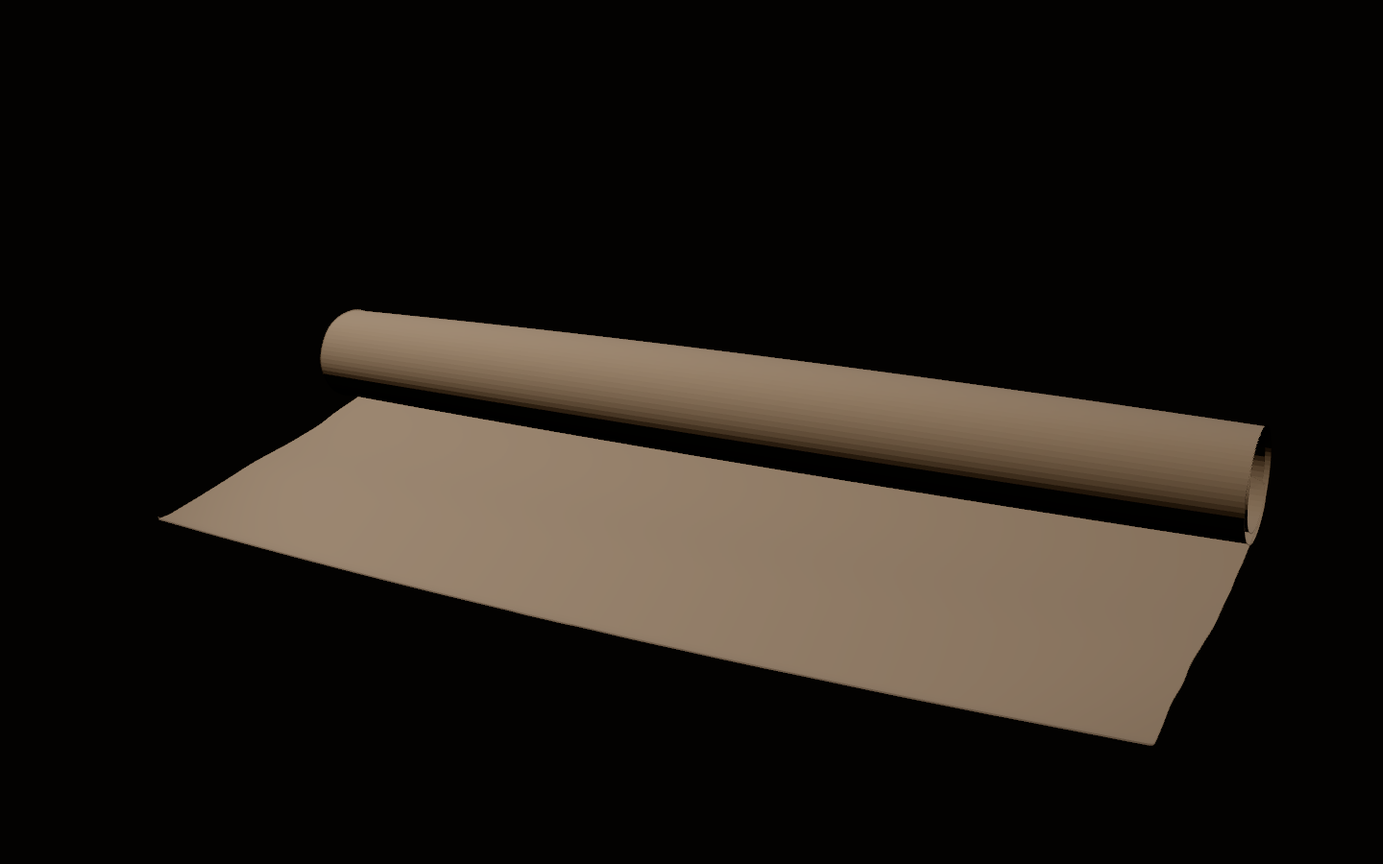
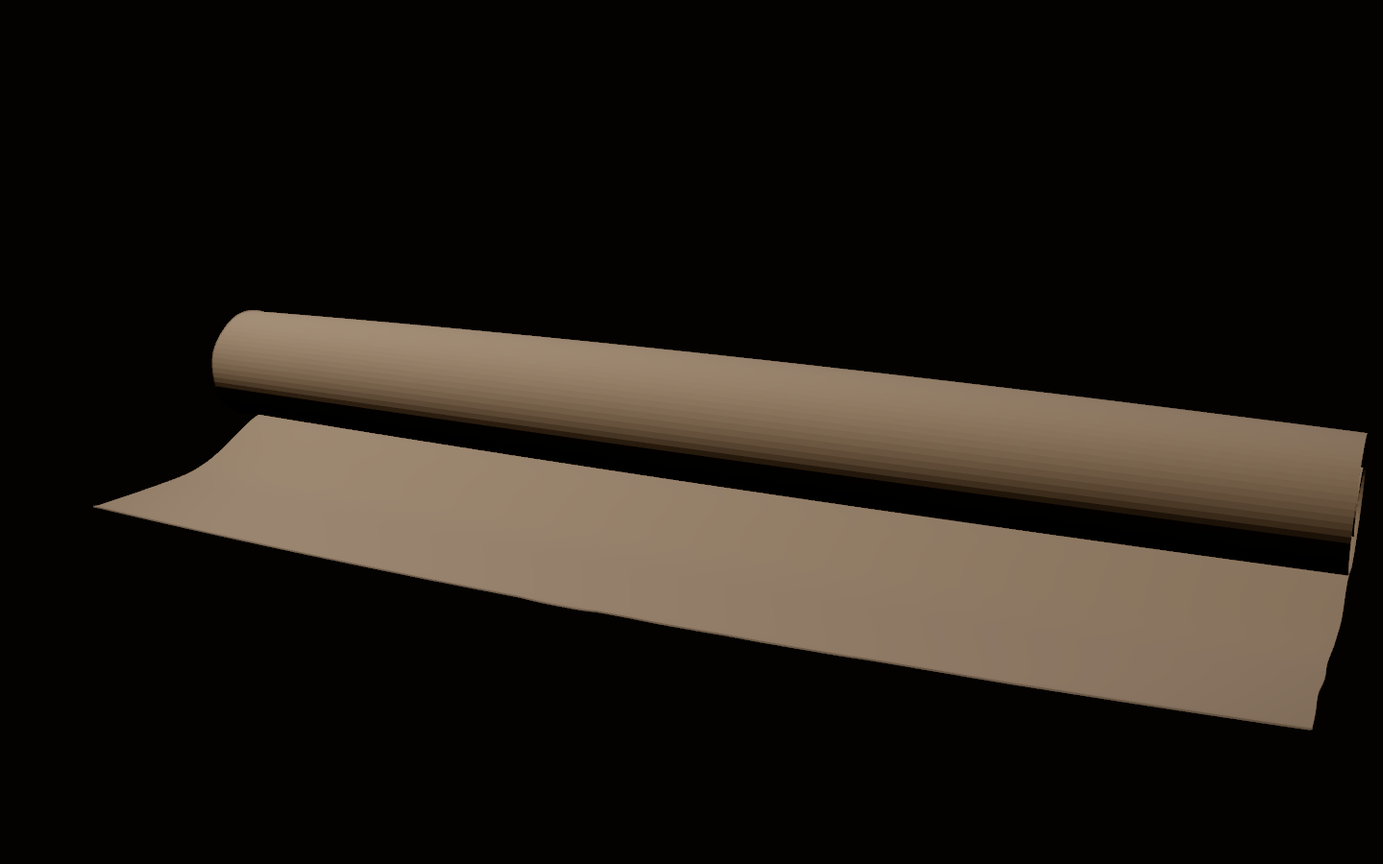
v1.3.1: tighten the rolled start — 82% wrapped, 4.2 turns, draped tongue
- W_top(0) 0.75 -> 0.82; SPIRAL_GAP 0.0045 -> 0.0075 (8.3x thickness):
  the wider gap is what lets an added turn still GROW the outer radius
  (0.0446 -> 0.0468, ~5 layers stack at the roll ends); r_core 0.0153
- tongue shortened to one roll diameter: 10% web + 8% lip; the web now
  DRAPES — sag profile y = sag·sin²(a·x̃), a = pi·(0.72+0.28·s): at
  p=0 it ends low (0.593·sag) with an upward slope handed C1 into the
  lip chain (tip 0.018 rises out of the droop); a = pi at the terminal
  restores the symmetric bump, keeping the residual-curl contract
  exact (probe: bottom 0.0136 unchanged, top 0.0153 in-band)
- W/r/sag checkpoint columns rederived; turns 4.2 -> 3.2 -> 1.8 ->
  0.5 -> 0.12
- p=0 camera in to d ~ 0.92, low 3/4 — the roll spans the frame with
  the near spiral end and draped tongue in view

Probes p=0/0.21/0.34/0.38: GPU == oracle <= 1.5e-7, normals <= 1.14
deg. R-0.00/0.21/0.34 re-blessed from cold loads (R-0.00 double-run).
Spec -> v1.3.1 (SS1/4/9/10 + figure + changelog); review PNGs updated
and sent.

diff --git a/docs/spec.html b/docs/spec.html
@@ -143,7 +143,7 @@
 <main>
 
 <header class="masthead">
-  <p class="eyebrow">Design &amp; Engineering Specification · v1.3 · mostly-rolled start pose</p>
+  <p class="eyebrow">Design &amp; Engineering Specification · v1.3.1 · tightened rolled start</p>
   <h1>Al-Fātiḥah 3D Manuscript</h1>
   <p class="dek">One aged parchment bearing the seven āyāt, floating in darkness, transformed by scroll:
   rolled → unrolled → written → presented → embossed → risen → facing. Every value below is typed into code,
@@ -207,8 +207,8 @@
   <div class="tw wide"><table>
     <thead><tr><th>State</th><th class="n">p range</th><th>Geometry</th><th>Simulation</th><th>Camera</th><th>Light</th><th>Rendering technique</th><th class="n">Overlap</th></tr></thead>
     <tbody>
-    <tr><td><b>1 Rolled</b></td><td class="n">0.00–0.08</td><td>Mostly rolled (v1.3): top roll holds <b>75%</b> of the length in 3.2 relaxed turns (layer gap 5× thickness — the spiral cross-section reads at the ends); a 25% tongue exposed below (15% web + 10% lip); pose tilt +14° about the curl line</td><td>Analytic curl field only; idle micro-breathing via residual field, amp 2.5e-4</td><td>Low ¾ close-up, 40 mm — the rolled object ≈ ½ frame height, both roll ends in frame</td><td>Key 1.0, rim 0.30, env yaw +12°</td><td>Curl evaluated in the surface-field pass (§17); edge ribbon traces the stacked layer edges at the roll ends</td><td class="n">0.06–0.08 → S2</td></tr>
-    <tr><td><b>2 Unrolling</b></td><td class="n">0.06–0.38</td><td>The turns unwind 3.2 → 0.1 across the state; center opens first, edges lag (u-dependent wrap, §4); residual curl kept at ends</td><td>Analytic pose + residual lattice excited by dp/dt (§17); settle ripple decays 0.34–0.38</td><td>Pulls back and rises as the sheet grows, 40→46 mm</td><td>Unchanged; shadow penumbra narrows as sheet flattens</td><td>Arc-length-preserving spiral wrap; FD normals over the final field, no approximation</td><td class="n">0.32–0.38 → S3</td></tr>
+    <tr><td><b>1 Rolled</b></td><td class="n">0.00–0.08</td><td>Mostly rolled (v1.3.1): top roll holds <b>82%</b> of the length in 4.2 relaxed turns (layer gap 0.0075 = 8.3× thickness — the spiral stacks clearly at the ends; ∅ 0.094); an 18% tongue below — 10% web ≈ one roll diameter, draping to −0.010 and rising into the 8% lip; pose tilt +14° about the curl line</td><td>Analytic curl field only; idle micro-breathing via residual field, amp 2.5e-4</td><td>Low ¾ close-up, 40 mm — the rolled object ≈ ½ frame height, both roll ends in frame</td><td>Key 1.0, rim 0.30, env yaw +12°</td><td>Curl evaluated in the surface-field pass (§17); edge ribbon traces the stacked layer edges at the roll ends</td><td class="n">0.06–0.08 → S2</td></tr>
+    <tr><td><b>2 Unrolling</b></td><td class="n">0.06–0.38</td><td>The turns unwind 4.2 → 0.12 across the state; center opens first, edges lag (u-dependent wrap, §4); residual curl kept at ends</td><td>Analytic pose + residual lattice excited by dp/dt (§17); settle ripple decays 0.34–0.38</td><td>Pulls back and rises as the sheet grows, 40→46 mm</td><td>Unchanged; shadow penumbra narrows as sheet flattens</td><td>Arc-length-preserving spiral wrap; FD normals over the final field, no approximation</td><td class="n">0.32–0.38 → S3</td></tr>
     <tr><td><b>3 Ink written</b></td><td class="n">0.32–0.58</td><td>Sheet flat with kept imperfections; cup +0.004, sag −0.0035</td><td>Residual decays to floor; writing gated to lines with local velocity &lt; 0.002 u/s</td><td>High oblique, 50 mm, text column 0.68 of height</td><td>Key dims to 0.88 so wet sheen reads from spec only</td><td>MTSDF threshold sweep along stroke-order field; wet channel → roughness/color/bleed (§14, §17)</td><td class="n">0.54–0.58 → S4</td></tr>
     <tr><td><b>4 Presenting</b></td><td class="n">0.54–0.66</td><td>Pose tilt 6°→0°; sheet fully settled</td><td>Residual asleep (force gate closed)</td><td>Rises to near-overhead: 83° elevation at p 0.60, 55 mm; 7° off pure top-down preserved</td><td>Key elevates (−0.55,1.30,0.55)→(−0.42,1.52,0.38); env yaw →0°</td><td>Camera spline only; no geometry change — legibility state</td><td class="n">0.64–0.66 → S5</td></tr>
     <tr><td><b>5 Relief</b></td><td class="n">0.64–0.73</td><td>Emboss normal 0.640–0.690; handoff overlap 0.690–0.730: geometry grows 0.00045→0.0012 while emboss strength fades 1→0 (§14)</td><td>None (sheet still)</td><td>Holds overhead, starts retreat at 0.70</td><td>Rim 0.30→0.42 to catch newborn edges</td><td>SDF-derived puff-height normal hands off to true geometry inside an explicit overlap window; silhouettes identical by construction (§14)</td><td class="n">0.722–0.730 → S6</td></tr>
@@ -324,9 +324,9 @@
   <div class="tw"><table>
     <thead><tr><th>Element @ p = 0</th><th class="n">Parameters</th><th>Note</th></tr></thead>
     <tbody>
-      <tr><td>Top roll (recto-out, sits above sheet plane)</td><td class="n">holds s ∈ [0, 0.75] · 3.2 turns · r_core 0.0302 · r_outer 0.0446 · layer gap 0.0045 (5× thickness) · curl line z +0.25</td><td>v1.3: a substantial rolled body, ∅ ≈ 0.089; the relaxed gap makes the spiral cross-section read as stacked layers at the ends</td></tr>
-      <tr><td>Bottom lip (verso-out, curls up toward viewer)</td><td class="n">holds s ∈ [0.90, 1.0] · 3-arc chain (§ footnote) · tip lift 0.011</td><td>The tongue's terminal flourish — the slighter hook tuned 2026-08-25, scaled to the shorter W_b</td></tr>
-      <tr><td>Tongue web CR points (z, y)</td><td class="n">(0.250, 0.0000) · (0.325, −0.0040) · (0.400, 0.0000)</td><td>A short 15% reading tongue with subtle sag; static anchor z = v − 0.5 — the tongue stays put, the roll pays out away from the reader</td></tr>
+      <tr><td>Top roll (recto-out, sits above sheet plane)</td><td class="n">holds s ∈ [0, 0.82] · 4.2 turns · r_core 0.0153 · r_outer 0.0468 · layer gap 0.0075 (8.3× thickness) · curl line z +0.32</td><td>v1.3.1: the roll IS the object, ∅ ≈ 0.094; the wide relaxed gap is what lets 4+ turns still grow the outer radius, and stacks ~5 visible layers at the ends</td></tr>
+      <tr><td>Bottom lip (verso-out, curls up toward viewer)</td><td class="n">holds s ∈ [0.92, 1.0] · 3-arc chain (§ footnote) · tip lift 0.018</td><td>Inherits the draped web's end height and slope (C1) — the tongue droops, then the lip rises out of the droop</td></tr>
+      <tr><td>Tongue web CR points (z, y)</td><td class="n">(0.320, 0.0000) · (0.389, −0.0100) · (0.420, −0.0059)</td><td>One-roll-diameter reading tongue, draped (profile min at 69% of the web); static anchor z = v − 0.5 — the tongue stays put, the roll pays out away from the reader</td></tr>
       <tr><td>Cross-sheet cup (anticlastic)</td><td class="n">edges +0.009 at u = ±0.39, quadratic in u</td><td>Dry parchment cups across the roll axis; corners lift most</td></tr>
       <tr><td>Pose tilt</td><td class="n">+14° pitch (top away)</td><td>Lectern presentation for the ¾ camera</td></tr>
     </tbody>
@@ -339,43 +339,44 @@
       <!-- equal scale 1440 px/world · x = 80 + 1440(z − 0.05) · y_px = 300 − 1440·y -->
       <line x1="40" y1="300" x2="820" y2="300" stroke="#2C2517" stroke-width="1" stroke-dasharray="3 5"/>
       <text x="822" y="304" class="svg-small">y = 0</text>
-      <!-- roll: center (0.25, 0.0446) → (368, 236); core r 43.5px, outer r 64px, gap ≈ 6.5px -->
-      <circle cx="368" cy="236" r="45" fill="none" stroke="#6E6350" stroke-width="1.2"/>
-      <circle cx="368" cy="236" r="51.5" fill="none" stroke="#8F7440" stroke-width="1.4"/>
-      <circle cx="368" cy="236" r="58" fill="none" stroke="#A98A58" stroke-width="1.6"/>
-      <path d="M368 172 A64 64 0 1 0 368.4 300" fill="none" stroke="#C9A45B" stroke-width="2.2"/>
-      <circle cx="368" cy="236" r="2.5" fill="#6E6350"/>
-      <!-- tongue: (0.25,0)→(0.40,0) with sag −0.004 at midpoint -->
-      <path d="M368 300 Q 476 307.5, 584 300" fill="none" stroke="#C9A45B" stroke-width="2.2"/>
-      <!-- lip: rises to tip +0.011 near z 0.48 (x 699, y 284), quiet ~48° hook -->
-      <path d="M584 300 C 622 300, 662 296, 682 291 C 694 288, 700 286, 699 284" fill="none" stroke="#C9A45B" stroke-width="2.2"/>
+      <!-- roll: center (0.32, 0.047) → (397, 232); core r 22px → outer r 67px, gap ≈ 10.8px -->
+      <circle cx="397" cy="232" r="22" fill="none" stroke="#6E6350" stroke-width="1.2"/>
+      <circle cx="397" cy="232" r="33" fill="none" stroke="#8F7440" stroke-width="1.3"/>
+      <circle cx="397" cy="232" r="44.5" fill="none" stroke="#A98A58" stroke-width="1.5"/>
+      <circle cx="397" cy="232" r="56" fill="none" stroke="#B99B68" stroke-width="1.7"/>
+      <path d="M397 165 A67.4 67.4 0 1 0 397.4 300" fill="none" stroke="#C9A45B" stroke-width="2.2"/>
+      <circle cx="397" cy="232" r="2.5" fill="#6E6350"/>
+      <!-- tongue: (0.32,0)→(0.42,−0.0059), draped — min −0.010 at 69% of the web -->
+      <path d="M397 300 C 440 302, 470 314.5, 496 314.5 C 512 314.5, 528 311.5, 541 308.5" fill="none" stroke="#C9A45B" stroke-width="2.2"/>
+      <!-- lip: rises out of the droop to tip +0.018 (x 649, y 274) -->
+      <path d="M541 308.5 C 570 302, 610 290, 632 282 C 644 277, 650 275, 649 274" fill="none" stroke="#C9A45B" stroke-width="2.2"/>
       <!-- CR dots -->
       <g fill="#E7DDC6">
-        <circle cx="368" cy="300" r="3"/><circle cx="476" cy="307.5" r="3"/>
-        <circle cx="584" cy="300" r="3"/><circle cx="699" cy="284" r="3"/>
+        <circle cx="397" cy="300" r="3"/><circle cx="496" cy="314.5" r="3"/>
+        <circle cx="541" cy="308.5" r="3"/><circle cx="649" cy="274" r="3"/>
       </g>
       <g class="svg-small">
-        <text x="368" y="322" text-anchor="middle">(0.250, 0)</text>
-        <text x="476" y="326" text-anchor="middle">(0.325, −0.004)</text>
-        <text x="584" y="322" text-anchor="middle">(0.400, 0)</text>
-        <text x="712" y="280">tip +0.011</text>
+        <text x="397" y="322" text-anchor="middle">(0.320, 0)</text>
+        <text x="496" y="332" text-anchor="middle">(0.389, −0.010)</text>
+        <text x="565" y="326" text-anchor="middle">(0.420, −0.0059)</text>
+        <text x="662" y="270">tip +0.018</text>
       </g>
       <!-- radius callouts -->
-      <line x1="368" y1="236" x2="411" y2="223" stroke="#8F7440" stroke-width="1" marker-end="url(#arr)"/>
-      <line x1="368" y1="236" x2="431" y2="255" stroke="#8F7440" stroke-width="1" marker-end="url(#arr)"/>
-      <text x="418" y="219" class="svg-label-g">r_core 0.0302</text>
-      <text x="438" y="262" class="svg-label-g">r_outer 0.0446</text>
-      <text x="368" y="150" class="svg-label" text-anchor="middle">top roll · holds 75% · 3.2 turns · layer gap 0.0045</text>
-      <text x="476" y="290" class="svg-label" text-anchor="middle">tongue 0.15</text>
-      <text x="660" y="318" class="svg-label">lip 0.10</text>
+      <line x1="397" y1="232" x2="418" y2="225" stroke="#8F7440" stroke-width="1" marker-end="url(#arr)"/>
+      <line x1="397" y1="232" x2="461" y2="252" stroke="#8F7440" stroke-width="1" marker-end="url(#arr)"/>
+      <text x="424" y="220" class="svg-label-g">r_core 0.0153</text>
+      <text x="468" y="259" class="svg-label-g">r_outer 0.0468</text>
+      <text x="397" y="146" class="svg-label" text-anchor="middle">top roll · holds 82% · 4.2 turns · layer gap 0.0075</text>
+      <text x="470" y="290" class="svg-label" text-anchor="middle">tongue 0.10 (≈ 1 ∅)</text>
+      <text x="600" y="318" class="svg-label">lip 0.08</text>
       <text x="180" y="296" class="svg-small">roll pays out away from reader (−z) →</text>
     </svg>
     </div>
-    <figcaption><b>Rolled pose at p = 0 (v1.3)</b>, side view at the sheet centerline, equal-scale axes.
-    Gold = outermost layer; dimmer strokes = inner wraps at the 0.0045 relaxed spiral gap — the stacked
-    layers the roll shows at its ends, each edge rendered by the ribbon (§2). The outer layer leaves the
-    roll tangent at the curl line and becomes the 15% tongue, ending in the 10% lip with its 0.011 tip
-    lift.</figcaption>
+    <figcaption><b>Rolled pose at p = 0 (v1.3.1)</b>, side view at the sheet centerline, equal-scale
+    axes. Gold = outermost layer; dimmer strokes = inner wraps at the 0.0075 relaxed spiral gap — the
+    ~5 stacked layers the roll shows at its ends, each edge rendered by the ribbon (§2). The outer
+    layer leaves the roll tangent at the curl line, drapes as the one-diameter tongue (min −0.010 at
+    69% of the web), and rises C1 into the lip's 0.018 tip.</figcaption>
   </figure>
 
   <h3>Unroll evolution <span class="tag">state 2, p 0.06 → 0.38</span></h3>
@@ -388,25 +389,29 @@
   <div class="tw"><table>
     <thead><tr><th class="n">State %</th><th class="n">p</th><th class="n">W_top (wrapped)</th><th class="n">W_bottom</th><th class="n">r_top core</th><th class="n">web sag</th><th class="n">tip lift top / bottom (derived†)</th></tr></thead>
     <tbody>
-      <tr><td class="n">0</td><td class="n">0.06</td><td class="n">0.750</td><td class="n">0.100</td><td class="n">0.0302</td><td class="n">−0.0040</td><td class="n">— / —</td></tr>
-      <tr><td class="n">25</td><td class="n">0.14</td><td class="n">0.560</td><td class="n">0.088</td><td class="n">0.0330</td><td class="n">−0.0090</td><td class="n">— / —</td></tr>
-      <tr><td class="n">50</td><td class="n">0.22</td><td class="n">0.330</td><td class="n">0.068</td><td class="n">0.0380</td><td class="n">−0.0110</td><td class="n">— / —</td></tr>
-      <tr><td class="n">75</td><td class="n">0.30</td><td class="n">0.120</td><td class="n">0.045</td><td class="n">0.0450</td><td class="n">−0.0075</td><td class="n">— / ≈0.018</td></tr>
-      <tr><td class="n">100</td><td class="n">0.38</td><td class="n">0.040*</td><td class="n">0.030*</td><td class="n">0.0520</td><td class="n">−0.0035</td><td class="n">0.0150 / 0.0136</td></tr>
+      <tr><td class="n">0</td><td class="n">0.06</td><td class="n">0.820</td><td class="n">0.080</td><td class="n">0.0153</td><td class="n">−0.0100</td><td class="n">— / —</td></tr>
+      <tr><td class="n">25</td><td class="n">0.14</td><td class="n">0.630</td><td class="n">0.075</td><td class="n">0.0190</td><td class="n">−0.0110</td><td class="n">— / —</td></tr>
+      <tr><td class="n">50</td><td class="n">0.22</td><td class="n">0.380</td><td class="n">0.062</td><td class="n">0.0260</td><td class="n">−0.0110</td><td class="n">— / —</td></tr>
+      <tr><td class="n">75</td><td class="n">0.30</td><td class="n">0.130</td><td class="n">0.044</td><td class="n">0.0380</td><td class="n">−0.0075</td><td class="n">— / ≈0.017</td></tr>
+      <tr><td class="n">100</td><td class="n">0.38</td><td class="n">0.040*</td><td class="n">0.030*</td><td class="n">0.0520</td><td class="n">−0.0035</td><td class="n">0.0153 / 0.0136</td></tr>
     </tbody>
   </table></div>
   <p style="font-size:13px;color:var(--muted)">† The last column is <b>derived from the implemented
   model</b> (probe-recorded), not driven — tip height above the plane where the residual wrap is
   &lt; ~1 rad, “—” while a rolled end still wraps past that. The driver columns (W, r, sag) are the
   contract and are checkpoint-splined exactly. Derived turn count across the unroll:
-  <b>3.2 → 2.3 → 1.3 → 0.4 → 0.12</b>. The spiral layer gap is 0.0045 (5× thickness — a relaxed old
-  roll; the terminal residual curl at Φ &lt; 1 rad is insensitive to it, preserving the contract).
-  “Center opens first, sides lag” is deterministic: <code>W_eff(u) = W_top + wLag·(2u)²</code>,
-  wLag = 0.035·sin(π·(p−0.06)/0.32) — zero at p = 0 and at the terminal, peak mid-unroll (the roll
-  ends trumpet slightly, as real scrolls do). The bottom lip is <b>three chained circular arcs</b>
-  (ramp → curl → edge; ramp share 0.76 → 0, radii 1.8→0.36 / 0.033→0.031 / 0.026→0.028): a near-flat
-  entry ramp keeps the hook quiet (~125° max). The web is <b>statically anchored</b> (z = v − 0.5):
-  the tongue stays put and the roll pays out away from the reader.</p>
+  <b>4.2 → 3.2 → 1.8 → 0.5 → 0.12</b>. The spiral layer gap is 0.0075 (8.3× thickness — a relaxed
+  old roll; the terminal residual curl at Φ &lt; 1 rad is insensitive to it, preserving the
+  contract). “Center opens first, sides lag” is deterministic:
+  <code>W_eff(u) = W_top + wLag·(2u)²</code>, wLag = 0.035·sin(π·(p−0.06)/0.32) — zero at p = 0 and
+  at the terminal, peak mid-unroll (the roll ends trumpet slightly, as real scrolls do). The web sag
+  profile is <code>y = sag·sin²(a·x̃)</code> with a = π·(0.72 + 0.28·s): at p = 0 the tongue
+  <b>drapes</b> (ends at 0.593·sag with an upward slope handed C1 into the lip, which rises out of
+  the droop to its 0.018 tip); at the terminal a = π restores the symmetric bump, keeping the
+  residual-curl contract exact. The bottom lip is <b>three chained circular arcs</b>
+  (ramp → curl → edge; ramp share 0.76 → 0, radii 1.8→0.36 / 0.033→0.031 / 0.026→0.028). The web is
+  <b>statically anchored</b> (z = v − 0.5): the tongue stays put and the roll pays out away from the
+  reader.</p>
   <p style="font-size:13px;color:var(--muted)">* Terminal values are <em>residual curl</em>: the last 4% / 3% of
   each end never fully flattens — the sheet remembers being rolled. Corners add a ±0.006 differential
   twist (opposite corners paired) that persists through every later state.</p>
@@ -685,7 +690,7 @@ penumbra_texels = clamp(penumbra_world / texelWorld, 1.0, 28.0)         // texel
   <div class="tw wide"><table>
     <thead><tr><th class="n">p</th><th class="n">f (mm) / vfov</th><th class="n">Position (x, y, z)</th><th class="n">Look-at</th><th class="n">Height over sheet</th><th class="n">View angle from plane</th><th class="n">Framing</th></tr></thead>
     <tbody>
-      <tr><td class="n">0.00</td><td class="n">40 / 33.4°</td><td class="n">(0.54, 0.31, 1.19)</td><td class="n">(0.00, 0.035, 0.31)</td><td class="n">0.31</td><td class="n">~15° (low ¾)</td><td>rolled object ≈ ½ frame height, both roll ends in frame, spiral end readable (v1.3)</td></tr>
+      <tr><td class="n">0.00</td><td class="n">40 / 33.4°</td><td class="n">(0.42, 0.27, 1.13)</td><td class="n">(0.00, 0.04, 0.34)</td><td class="n">0.27</td><td class="n">~14° (low ¾)</td><td>the roll spans the frame (d ≈ 0.92); near spiral end in frame, draped tongue below (v1.3.1)</td></tr>
       <tr><td class="n">0.21</td><td class="n">42 / 31.9°</td><td class="n">(0.36, 0.59, 1.05)</td><td class="n">(0.00, 0.02, 0.18)</td><td class="n">0.59</td><td class="n">~33°</td><td>opening sheet fills ~0.7 width (v1.3)</td></tr>
       <tr><td class="n">0.34</td><td class="n">46 / 29.3°</td><td class="n">(0.10, 0.60, 0.42)</td><td class="n">(0.00, 0.012, 0.03)</td><td class="n">0.60</td><td class="n">~52°</td><td>full sheet 0.78 height</td></tr>
       <tr><td class="n">0.47</td><td class="n">50 / 27.0°</td><td class="n">(0.02, 0.74, 0.26)</td><td class="n">(0.00, 0.008, 0.045)</td><td class="n">0.74</td><td class="n">~68°</td><td>text column 0.68 height — writing overwatch</td></tr>
@@ -757,11 +762,11 @@ penumbra_texels = clamp(penumbra_world / texelWorld, 1.0, 28.0)         // texel
   <div class="tw wide"><table>
     <thead><tr><th class="n">p</th><th>State</th><th>Parchment deformation</th><th>Ink progress</th><th class="n">Extrusion depth</th><th class="n">Text rotation</th><th>Camera</th><th>Key light</th><th class="n">Env yaw</th><th>Easing</th></tr></thead>
     <tbody>
-      <tr><td class="n">0.00</td><td>1</td><td>W 0.75/0.10 · 3.2 turns · sag −0.004 · tilt +14°</td><td>—</td><td class="n">0</td><td class="n">—</td><td>anchor A0, 40 mm</td><td>1.00 @ base pos</td><td class="n">+12°</td><td>idle breathing only</td></tr>
+      <tr><td class="n">0.00</td><td>1</td><td>W 0.82/0.08 · 4.2 turns · sag −0.010 (draped) · tilt +14°</td><td>—</td><td class="n">0</td><td class="n">—</td><td>anchor A0, 40 mm</td><td>1.00 @ base pos</td><td class="n">+12°</td><td>idle breathing only</td></tr>
       <tr><td class="n">0.06</td><td>1→2</td><td>unroll begins (seal breaks)</td><td>—</td><td class="n">0</td><td class="n">—</td><td>dolly starts</td><td>1.00</td><td class="n">+12°</td><td>E1 in</td></tr>
-      <tr><td class="n">0.14</td><td>2</td><td>W 0.56/0.088 · 2.3 turns · r_core 0.0330</td><td>—</td><td class="n">0</td><td class="n">—</td><td>A0→A1</td><td>1.00</td><td class="n">+12°</td><td>E1</td></tr>
-      <tr><td class="n">0.22</td><td>2</td><td>W 0.33/0.068 · 1.3 turns · sag −0.011 · edges-lag peak</td><td>—</td><td class="n">0</td><td class="n">—</td><td>A1, 42 mm</td><td>1.00</td><td class="n">+12°</td><td>E1</td></tr>
-      <tr><td class="n">0.30</td><td>2</td><td>W 0.12/0.045 · 0.4 turns · residual ripple active</td><td>—</td><td class="n">0</td><td class="n">—</td><td>A1→A2</td><td>1.00</td><td class="n">+12°</td><td>E1 out</td></tr>
+      <tr><td class="n">0.14</td><td>2</td><td>W 0.63/0.075 · 3.2 turns · r_core 0.0190</td><td>—</td><td class="n">0</td><td class="n">—</td><td>A0→A1</td><td>1.00</td><td class="n">+12°</td><td>E1</td></tr>
+      <tr><td class="n">0.22</td><td>2</td><td>W 0.38/0.062 · 1.8 turns · sag −0.011 · edges-lag peak</td><td>—</td><td class="n">0</td><td class="n">—</td><td>A1, 42 mm</td><td>1.00</td><td class="n">+12°</td><td>E1</td></tr>
+      <tr><td class="n">0.30</td><td>2</td><td>W 0.13/0.044 · 0.5 turns · residual ripple active</td><td>—</td><td class="n">0</td><td class="n">—</td><td>A1→A2</td><td>1.00</td><td class="n">+12°</td><td>E1 out</td></tr>
       <tr><td class="n">0.34</td><td>2/3</td><td>final quarter-turn releasing; ripple decaying (τ 0.29 s)</td><td>A1 basmalah 60% written, wet</td><td class="n">0</td><td class="n">—</td><td>A2, 46 mm</td><td>0.88 (S3 dim)</td><td class="n">+12°</td><td>ink E5 per glyph</td></tr>
       <tr><td class="n">0.38</td><td>3</td><td>settled: sag −0.0035, cup +0.004 <em>(held to p 1)</em></td><td>A1 done · A2 writing</td><td class="n">0</td><td class="n">—</td><td>A2→A3</td><td>0.88</td><td class="n">+11°</td><td>E5</td></tr>
       <tr><td class="n">0.45</td><td>3</td><td>still</td><td>A4 writing (window 0.424–0.451)</td><td class="n">0</td><td class="n">—</td><td>A3, 50 mm</td><td>0.88</td><td class="n">+8°</td><td>E5</td></tr>
@@ -1294,7 +1299,7 @@ world(u,v) = P(u,v) + T·r_t + B·r_b + N·r_n</code></pre>
   </div>
 
   <p style="margin-top:34px;border-top:1px solid var(--line);padding-top:18px;font-size:12.5px;color:var(--faint)">
-  Al-Fātiḥah 3D Manuscript · specification v1.3 · axis-locked to p ∈ [0, 1] · supplied calligraphy is
+  Al-Fātiḥah 3D Manuscript · specification v1.3.1 · axis-locked to p ∈ [0, 1] · supplied calligraphy is
   authoritative and untouchable · no bloom, no aura, no spectacle — the light does the reverence.</p>
 </section>
 
@@ -1361,6 +1366,13 @@ world(u,v) = P(u,v) + T·r_t + B·r_b + N·r_n</code></pre>
     <li><b>QA</b> — probes re-run at p = 0 / 0.21 / 0.34 / 0.38 (GPU == oracle ≤ 2.3e-7, normals
     ≤ 1.18°, webgl2 verified at p = 0); R-0.00 / 0.21 / 0.34 re-blessed from cold loads on a restarted
     server per the blessing policy.</li>
+    <li><b>v1.3.1 (tightened, same day)</b> — wrapped fraction 0.75 → 0.82; 4.2 turns at layer gap
+    0.0075 (wider gap grows the outer radius to 0.0468 while adding a turn; ~5 layers stack at the
+    ends); tongue shortened to one roll diameter (10% web + 8% lip) and <b>draped</b> — sag profile
+    y = sag·sin²(a·x̃), a = π·(0.72 + 0.28·s), ends low with an upward slope handed C1 into the lip
+    (tip 0.018); a = π at the terminal keeps the residual-curl contract exact (probe 0.0153 / 0.0136).
+    p = 0 camera in to d ≈ 0.92. Probes pass at p = 0 / 0.21 / 0.34 / 0.38 (≤ 1.5e-7, ≤ 1.14°);
+    turns 4.2 → 2.0 (p 0.21) → 0.28 (p 0.34).</li>
   </ol>
 </section>
 

diff --git a/src/field/deform.ts b/src/field/deform.ts
@@ -52,14 +52,14 @@ export function pchip(xs: readonly number[], ys: readonly number[]): (x: number)
   };
 }
 
-// §4 checkpoint drivers (columns of the table, exact). v1.3 rederivation (user direction):
-// the manuscript starts MOSTLY ROLLED — 75% of the length wrapped in a 3.5-turn top roll,
-// with a 25% tongue (15% web + 10% lip) exposed below. The unroll pays the turns out across
-// state 2; terminal residual-curl values are the unchanged contract.
-const wTop = pchip(CHECKPOINT_P, [0.75, 0.56, 0.33, 0.12, 0.04]);
-const wBot = pchip(CHECKPOINT_P, [0.1, 0.088, 0.068, 0.045, 0.03]);
-const rCore = pchip(CHECKPOINT_P, [0.0302, 0.033, 0.038, 0.045, 0.052]);
-const sagD = pchip(CHECKPOINT_P, [-0.004, -0.009, -0.011, -0.0075, -0.0035]);
+// §4 checkpoint drivers (columns of the table, exact). v1.3.1 (user direction, tightened):
+// the manuscript starts at 82% wrapped — a 4.2-turn roll (outer r 0.0468) with only an
+// 18% tongue exposed (10% draped web ≈ one roll diameter + 8% lip). The unroll pays the
+// turns out across state 2; terminal residual-curl values are the unchanged contract.
+const wTop = pchip(CHECKPOINT_P, [0.82, 0.63, 0.38, 0.13, 0.04]);
+const wBot = pchip(CHECKPOINT_P, [0.08, 0.075, 0.062, 0.044, 0.03]);
+const rCore = pchip(CHECKPOINT_P, [0.0153, 0.019, 0.026, 0.038, 0.052]);
+const sagD = pchip(CHECKPOINT_P, [-0.01, -0.011, -0.011, -0.0075, -0.0035]);
 
 // Bottom C-curl model — three chained circular arcs (ramp → curl → edge). The ramp share
 // shrinks as the sheet pays out: the terminal residual is all tight edge-memory curl. Radii
@@ -75,11 +75,21 @@ const edgeR = pchip(CHECKPOINT_P, [0.026, 0.026, 0.027, 0.028, 0.028]);
 
 export const THICKNESS = 0.0009; // §2
 
-// The top roll is a RELAXED spiral: layer spacing 0.0045 (5× sheet thickness), so the
-// spiral cross-section reads as visibly stacked layers at the roll ends. The terminal
-// residual curl (Φ < 1 rad) is insensitive to the gap, so the §4 contract holds.
-export const SPIRAL_GAP = 0.0045;
+// The top roll is a RELAXED spiral: layer spacing 0.0075 (8.3× sheet thickness), so the
+// spiral cross-section reads as clearly stacked layers at the roll ends — and the wider
+// gap is what lets 4.2 turns still grow the OUTER radius. The terminal residual curl
+// (Φ < 1 rad) is insensitive to the gap, so the §4 contract holds.
+export const SPIRAL_GAP = 0.0075;
 const K_SPIRAL = SPIRAL_GAP / (2 * Math.PI); // Archimedean growth per radian
+
+/** Web sag profile phase — y = sag·sin²(a·x̃) with a = π·(0.72 + 0.28·s). At p = 0 the
+ *  profile ends DROOPED (y = 0.593·sag) with an upward slope that hands off C1 into the
+ *  lip — the tongue drapes rather than lying flat. At the terminal a = π restores the
+ *  symmetric bump (end y = 0), keeping the residual-curl contract exact. */
+export function sagPhaseOf(p: number): number {
+  const s = Math.max(0, Math.min(1, (p - 0.06) / 0.32));
+  return Math.PI * (0.72 + 0.28 * s);
+}
 
 /** “Center opens first, sides lag” (§4/state 2): extra wrap held at the sheet edges,
  *  W_eff(u) = W_top + wLag·(2u)², windowed to the unroll so p = 0 and terminal are exact. */
@@ -120,6 +130,8 @@ export interface DeformState {
   /** z of the bottom curl line (= 0.5 − wBot) */
   zBotCurl: number;
   sag: number;
+  /** web sag profile phase a — y = sag·sin²(a·x̃) */
+  sagA: number;
   cup: number;
   twist: number;
   bottom: ArcPhase[];
@@ -161,16 +173,23 @@ export function evalDeform(p: number): DeformState {
   const zTopCurl = wt - 0.5;
   const topC: [number, number] = [zTopCurl, rOuter]; // center sits one outer radius above the curl line
 
-  // Bottom curl: three chained arcs starting at the curl line, tangent to the flat web.
+  // Bottom curl: three chained arcs starting at the curl line, C1 with the draped web —
+  // the chain inherits the web profile's end height and end slope (u = 0; the lag term is
+  // zero at the curl-line handoff scale and the lip is u-uniform by design).
   const zBotCurl = 0.5 - wb;
+  const sag = sagD(p);
+  const sagA = sagPhaseOf(p);
+  const webLen = Math.max(1e-4, 1 - wt - wb);
+  const webEndY = sag * Math.sin(sagA) ** 2;
+  const webEndSlope = (sag * sagA * Math.sin(2 * sagA)) / webLen;
   const fr = Math.max(0, Math.min(1, rampFrac(p)));
   const lRamp = fr * wb;
   const lCurl = (1 - fr) * 0.6 * wb;
   const lEdge = (1 - fr) * 0.4 * wb;
   const phases: ArcPhase[] = [];
   let cz = zBotCurl;
-  let cy = 0;
-  let ca = 0;
+  let cy = webEndY;
+  let ca = Math.atan(webEndSlope);
   let s0 = 0;
   const defs: Array<[number, number]> = [
     [lRamp, 1 / rampR(p)],
@@ -211,7 +230,8 @@ export function evalDeform(p: number): DeformState {
     topC,
     zTopCurl,
     zBotCurl,
-    sag: sagD(p),
+    sag,
+    sagA,
     cup,
     twist: 0.006,
     bottom: phases,

diff --git a/src/field/field.ts b/src/field/field.ts
@@ -76,8 +76,9 @@ export class Field {
   private uWt: N = uniform(0.75);
   private uWb: N = uniform(0.1);
   private uWLag: N = uniform(0);
-  private uRc: N = uniform(0.0302);
-  private uSag: N = uniform(-0.004);
+  private uRc: N = uniform(0.0153);
+  private uSag: N = uniform(-0.01);
+  private uSagA: N = uniform(Math.PI * 0.72);
   private uCup: N = uniform(0.009);
   private uTwist: N = uniform(0.006);
   // bottom curl phases: (start z, start y, start angle, curvature) ×3
@@ -170,12 +171,13 @@ export class Field {
     const yTop: N = Cy.sub(rho.mul(cos(psi)));
     const aTop: N = psi.negate(); // profile tangent angle ≈ −ψ (spiral growth term ≪ ρ)
 
-    // --- web: z = v − 0.5, y = sag·sin²(π·x̃) (zero slope at both curl lines)
+    // --- web: z = v − 0.5, y = sag·sin²(a·x̃) — a < π drapes the tongue (ends low with an
+    // upward slope handed C1 into the lip chain); a = π at the terminal (symmetric bump)
     const webLen: N = float(1).sub(Weff).sub(Wb);
     const xw: N = clamp(v.sub(Weff).div(webLen), 0, 1);
     const zWeb: N = v.sub(0.5);
-    const yWeb: N = this.uSag.mul(sin(xw.mul(Math.PI)).pow(2));
-    const aWeb: N = this.uSag.mul(Math.PI).mul(sin(xw.mul(2 * Math.PI))).div(webLen);
+    const yWeb: N = this.uSag.mul(sin(xw.mul(this.uSagA)).pow(2));
+    const aWeb: N = this.uSag.mul(this.uSagA).mul(sin(xw.mul(this.uSagA).mul(2))).div(webLen);
 
     // --- bottom curl: chained circular arcs; phase-start poses precomputed on CPU
     const sB: N = clamp(v.sub(float(1).sub(Wb)), 0, 1);
@@ -226,6 +228,7 @@ export class Field {
     this.uWLag.value = d.wLag;
     this.uRc.value = d.rCore;
     this.uSag.value = d.sag;
+    this.uSagA.value = d.sagA;
     this.uCup.value = d.cup;
     this.uTwist.value = d.twist;
     const uPh: N[] = [this.uB0, this.uB1, this.uB2];

diff --git a/src/director/camera.ts b/src/director/camera.ts
@@ -18,9 +18,10 @@ interface Anchor {
 // are scaled so each state meets its §9 FRAMING FRACTION (the fractions are the contract).
 // M4 owns the designed pass, per-segment eases, mobile overrides, and the spec-table sync.
 const ANCHORS: readonly Anchor[] = [
-  // p=0 (v1.3): the mostly-rolled scroll is a compact object at z ≈ +0.33 — the camera moves
-  // in close on a LOW three-quarter so the roll reads as a body and the spiral end shows.
-  { p: 0.0, focal: 40, pos: new Vector3(0.54, 0.31, 1.19), look: new Vector3(0.0, 0.035, 0.31) },
+  // p=0 (v1.3.1): 82% wrapped — the roll is the object. Camera in at d ≈ 0.8 on a low
+  // three-quarter, aimed at the roll axis; the near spiral end reads, the far end may
+  // graze the frame edge (it should feel big).
+  { p: 0.0, focal: 40, pos: new Vector3(0.42, 0.27, 1.13), look: new Vector3(0.0, 0.04, 0.34) },
   { p: 0.21, focal: 42, pos: new Vector3(0.36, 0.59, 1.05), look: new Vector3(0.0, 0.02, 0.18) },
   { p: 0.34, focal: 46, pos: new Vector3(0.33, 1.952, 1.317), look: new Vector3(0.0, 0.012, 0.03) },
   { p: 0.47, focal: 50, pos: new Vector3(0.06, 2.204, 0.69), look: new Vector3(0.0, 0.008, 0.045) },

diff --git a/src/field/cpuPose.ts b/src/field/cpuPose.ts
@@ -59,8 +59,8 @@ export function cpuPose(u: number, v: number, d: DeformState): PosePoint {
     const webLen = 1 - wEff - d.wBot;
     const xw = Math.max(0, Math.min(1, (v - wEff) / webLen));
     z = v - 0.5;
-    y = d.sag * Math.sin(Math.PI * xw) ** 2;
-    a = (d.sag * Math.PI * Math.sin(2 * Math.PI * xw)) / webLen;
+    y = d.sag * Math.sin(d.sagA * xw) ** 2;
+    a = (d.sag * d.sagA * Math.sin(2 * d.sagA * xw)) / webLen;
   }
 
   const nz = -Math.sin(a);
